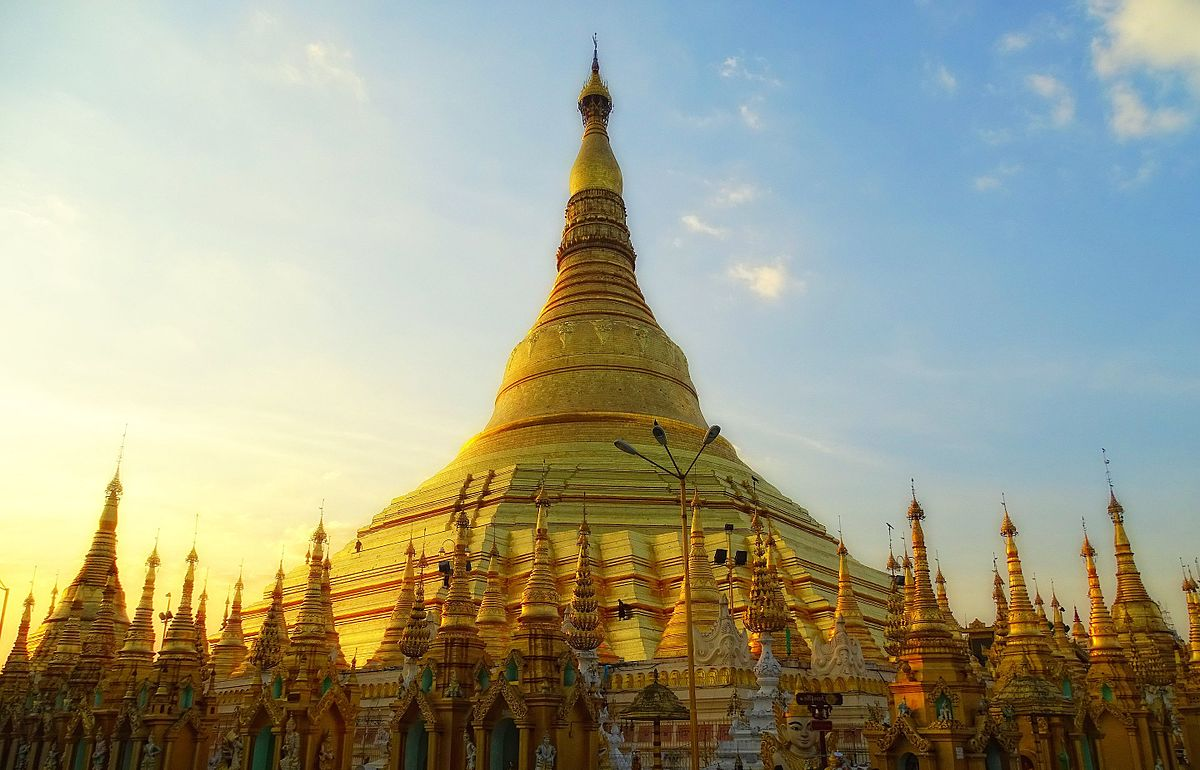
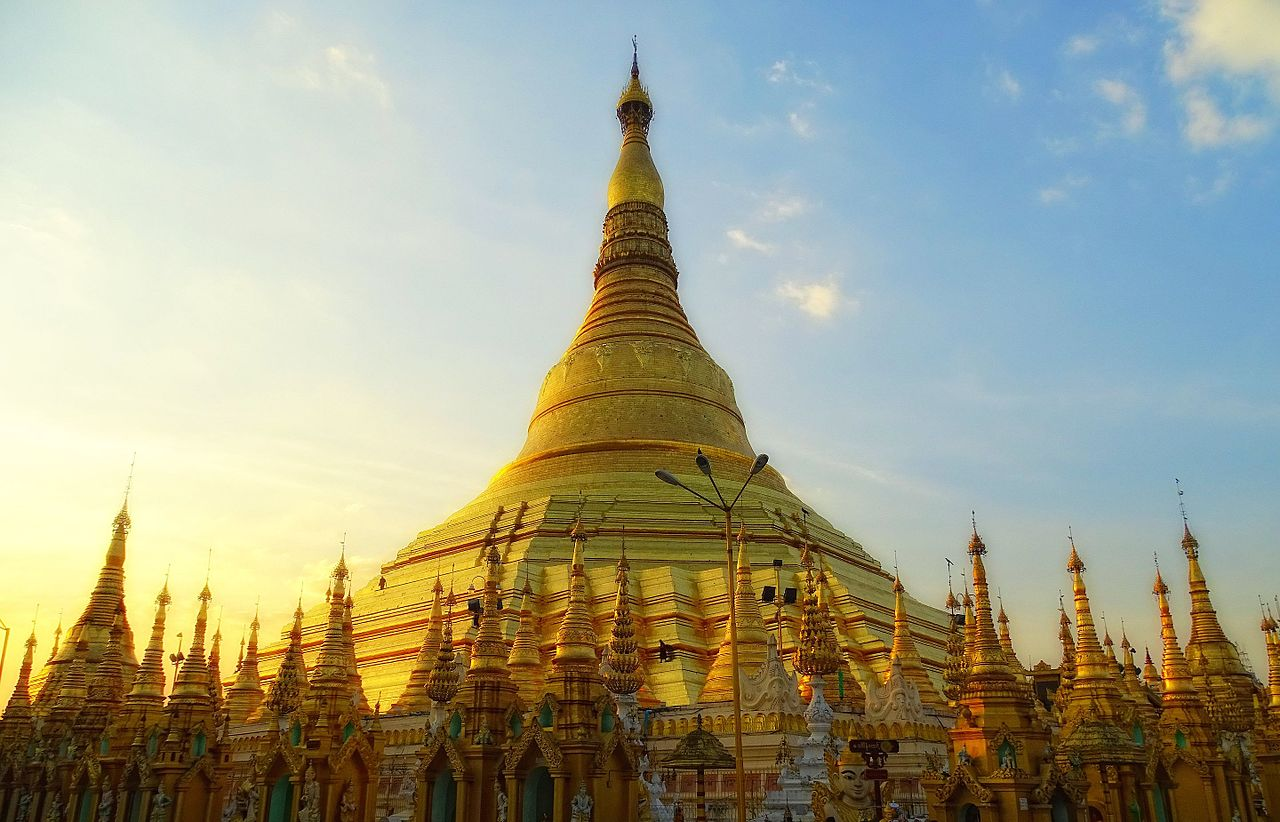
New header pic

diff --git a/index.html b/index.html
@@ -11,6 +11,8 @@ Released   : 20130902
 
 -->
 <html xmlns="http://www.w3.org/1999/xhtml">
+
+<!-- HEADER -->
 <head>
 <meta http-equiv="Content-Type" content="text/html; charset=utf-8" />
 <title></title>
@@ -19,75 +21,47 @@ Released   : 20130902
 <link href="http://fonts.googleapis.com/css?family=Source+Sans+Pro:200,300,400,600,700,900" rel="stylesheet" />
 <link href="default.css" rel="stylesheet" type="text/css" media="all" />
 <link href="fonts.css" rel="stylesheet" type="text/css" media="all" />
-
 <!--[if IE 6]><link href="default_ie6.css" rel="stylesheet" type="text/css" /><![endif]-->
-
 </head>
+
+<!-- BODY -->
 <body>
+
+<!-- LOGO AND IN-SITE LINKS -->
 <div id="page" class="container">
 	<div id="header">
 		<div id="logo">
 			<img src="images/llwin1_c.jpg" alt="" />
-			<h1><a href="#">Privy</a></h1>
-			<span>Design by <a href="http://templated.co" rel="nofollow">TEMPLATED</a></span>
+				<h2>Lu Min Lwin</h2>
+                                <span class="byline">Candidate, B.A. in Computer Science and Economics<br/></span>
+				<span class="byline">Swarthmore College '19</span>
 		</div>
+
 		<div id="menu">
 			<ul>
 				<li class="current_page_item"><a href="#" accesskey="1" title="">Homepage</a></li>
-				<li><a href="#" accesskey="2" title="">Our Clients</a></li>
-				<li><a href="#" accesskey="3" title="">About Us</a></li>
-				<li><a href="#" accesskey="4" title="">Careers</a></li>
-				<li><a href="#" accesskey="5" title="">Contact Us</a></li>
+				<li><a href="#" accesskey="2" title="">Link 1</a></li>
+				<li><a href="#" accesskey="3" title="">Link 2</a></li>
 			</ul>
 		</div>
 	</div>
+
+<!-- MAIN TEXT BODY -->
 	<div id="main">
 		<div id="banner">
-			<img src="images/shwedagon.jpg" alt="" class="image-full" />
+			<img src="images/bagan.jpg" alt="" class="image-full" />
 		</div>
 		<div id="welcome">
 			<div class="title">
 				<h2>Lu Min Lwin</h2>
-				<span class="byline">ue praesent a lacus at urna congue</span>
-                                <p>Candidate for Bachelor of Arts in<br/>
-                                Computer Science and Economics<br/>
-                                Swarthmore College '19</p>
+                                <span class="byline">Candidate, B.A. in Computer Science and Economics<br/></span>
+				<span class="byline">Swarthmore College '19</span>
 			</div>
-			<ul class="actions">
-				<li><a href="#" class="button">class button</a></li>
-			</ul>
 		</div>
-		<div id="featured">
-			<div class="title">
-				<h2>class title (same as "Lu Min Lwin")</h2>
-				<span class="byline">class byline</span>
-			</div>
-			<ul class="style1">
-				<li class="first">
-					<p class="date"><a href="#">class date with link to nowhere</a></p>
-					<h3>Header 3</h3>
-                                        <p><a href="#">dummy paragraph</a></p>
-				</li>
-				<li>
-					<p class="date"><a href="#">Jan<b>03</b></a></p>
-					<h3>Sagittis diam dolor amet</h3>
-					<p><a href="#">Etiam non felis. Donec ut ante. In id eros. Suspendisse lacus turpis, cursus egestas at sem. Mauris quam enim, molestie. Donec leo, vivamus fermentum nibh in augue praesent congue rutrum.</a></p>
-				</li>
-				<li>
-					<p class="date"><a href="#">Jan<b>01</b></a></p>
-					<h3>Amet sed volutpat mauris</h3>
-					<p><a href="#">Consectetuer adipiscing elit. Nam pede erat, porta eu, lobortis eget, tempus et, tellus. Etiam neque. Vivamus consequat lorem at nisl. Nullam non wisi a sem semper eleifend. Etiam non felis. Donec ut ante.</a></p>
-				</li>
-				<li>
-					<p class="date"><a href="#">Dec<b>31</b></a></p>
-					<h3>Header 3</h3>
-					<p><a href="#">link to nowhere</a></p>
-				</li>
-			</ul>
-		</div>
+
+<!-- FOOTER -->
 		<div id="copyright">
 			<span>copyright span 1</span>
-			<span>copyright span 2</span>
 		</div>
 	</div>
 </div>
